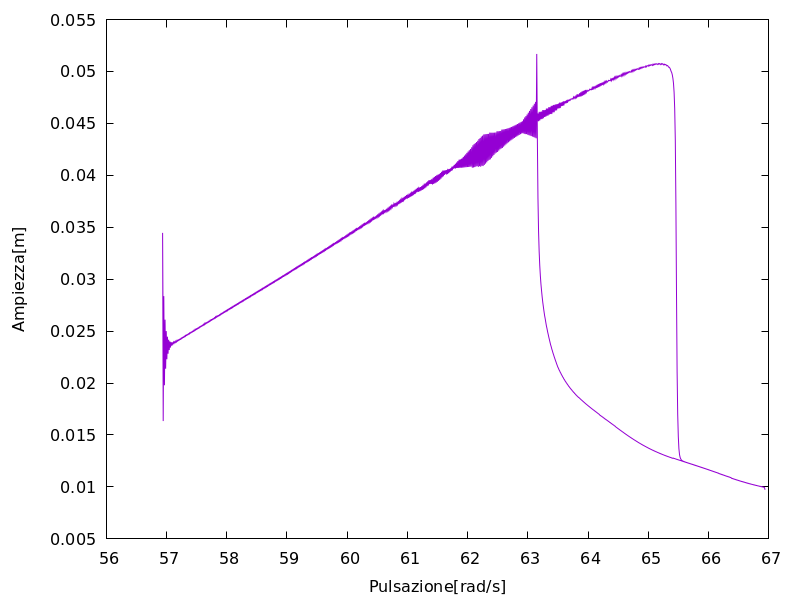
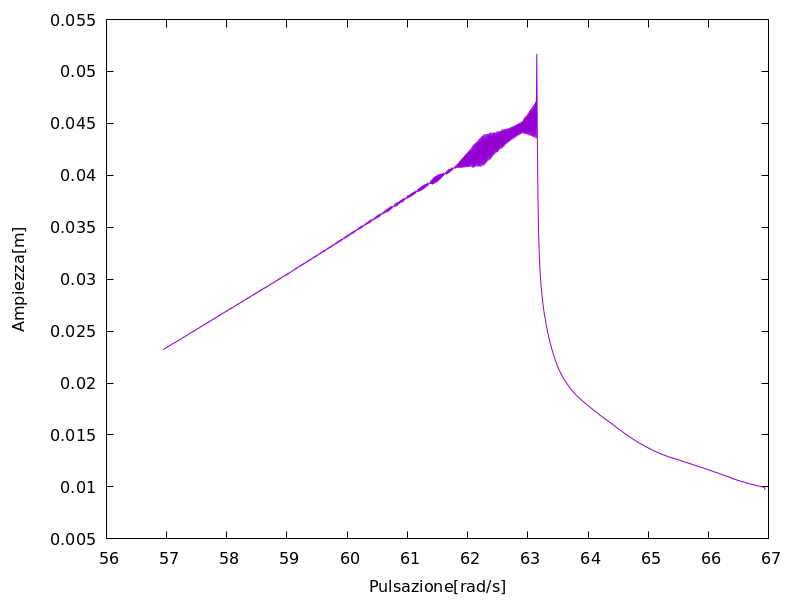
a

diff --git a/risonanza_corda.cpp b/risonanza_corda.cpp
@@ -7,6 +7,8 @@
 #include "gplot++.h"
 //preso da https://tinyurl.com/yyoeskq7
 
+enum modalita{destra, sinistra};
+
 using namespace std;
 
 int sign(double x){ return x == 0. ? 0 : (x > 0 ? 1 : -1) ;}
@@ -52,13 +54,24 @@ int main(int argc, const char *argv[]) {
   cout << "Calcolo ampiezza oscillazione stabile al variare della pulsazione omega della forzante" << endl;
   cout << "I dati sono salvati in " << filename << endl;
   
+  modalita mod = sinistra;
+  //modalita mod = destra;
+
   double larghezza_curva = 2 ;
+
   double passo = 0.01;
   int it=0;
   double omega_p = omega_0;  // pulsazione sarà ricalcolata nel ciclo, poiché dipende dall'ampiezza
+  double min = omega_0-larghezza_curva;
+  double max = omega_0+larghezza_curva*4;
+  double iniziale = min;
+  if(mod == destra){
+    iniziale = max;
+    passo = -passo;
+  }
 
-  //for(double om = omega_0-larghezza_curva; om <= omega_0+larghezza_curva*4; om += passo, it++ ){ // da sinistra
-  for(double om = omega_0+larghezza_curva*4; om >= omega_0-larghezza_curva; om -= passo, it++ ){   // da destra 
+  for(double om = iniziale; om >= min && om <= max; om += passo, it++ ){ // da sinistra
+  //for(double om = ; om >= omega_0-larghezza_curva; om -= passo, it++ ){   // da destra 
     
     corda_forzante oa{omega_p, alpha, om, 10.};
     vector<double> pos{0., 0.};
@@ -92,6 +105,7 @@ int main(int argc, const char *argv[]) {
     omega.push_back(om);
 
     //salvo i dati nel file di output
+    if(passo < 0 || it > 100)   //da destra, passo > 0, non salvo i primi dati perché molto variabili. Da sinistra, passo <0, no problem.
     out << om << ", " << A_temp << endl;
     
     //stampo il progresso attuale

diff --git a/README.md b/README.md
@@ -6,10 +6,14 @@ Si ottiene una curva asimmetrica che però dipende da se si parte da frequenze m
 
 Partendo da destra si ottiene la seguente curva:
 
-![curva da destra](/risonanza_da_destra.png)
+![curva da destra](/curva_da_destra.png)
 
 Mentre da sinistra si ha:
 
-![curva da sinistra](/risonanza_da_sinistra.png)
+![curva da sinistra](/curva_da_sinistra.png)
+
+I due grafici sovrapposti danno il seguente risultato
+
+![Sovrapposti](/curva_1.png)
 
 Il programma fa uso di gnuplot e della libreria [gplot++](https://github.com/ziotom78/gplotpp) per fare grafici con c++.
